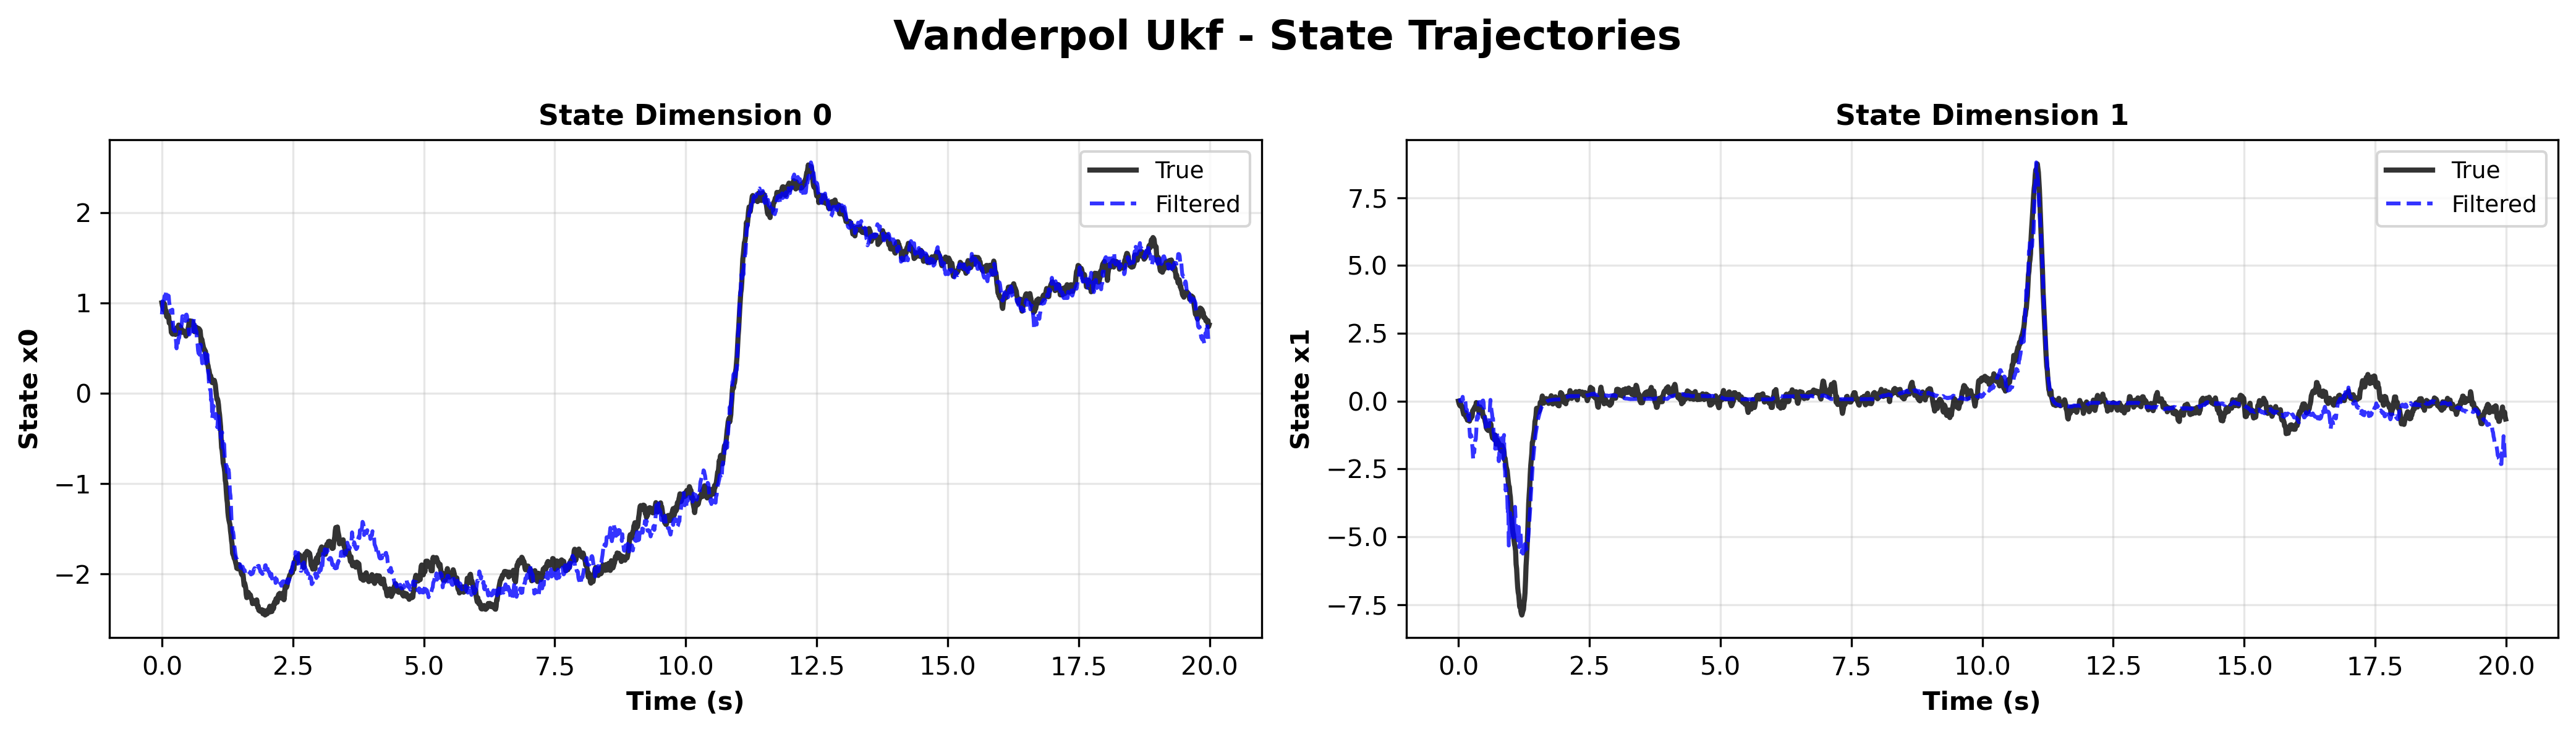
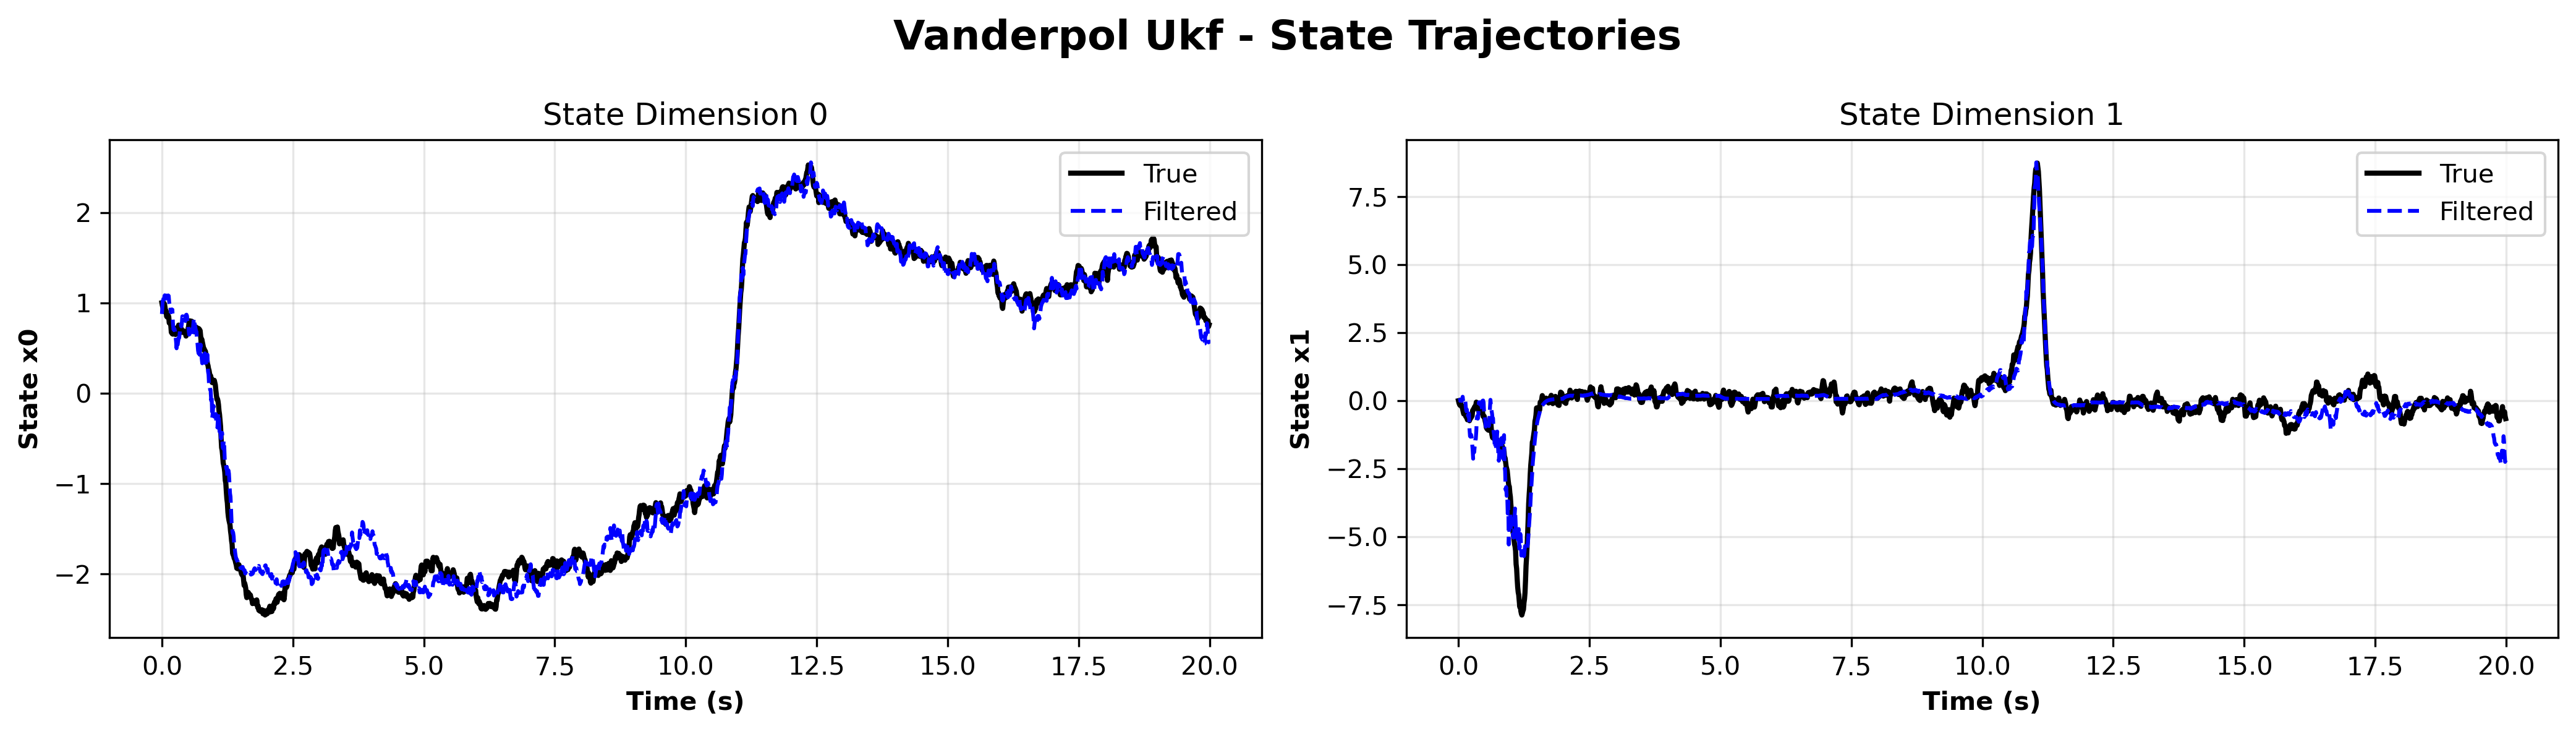
build: audited OptMathKernels bump v0.5.15 -> v0.5.17 (v3.2.1)
Adopt OptMathKernels release tag v0.5.17 per the Release Audit & Pinning
Policy. The upstream diff v0.5.15..v0.5.17 is docs + a NEON unit-test
tolerance fix only:

  - v0.5.16: x86_64 desktop RTX 5090 benchmark numbers (docs)
  - v0.5.17: relax NEON TrsvLower64x64 test tolerance 1e-3 -> 5e-3 to
    match its TrsvUpper twin (float32 forward-sub round-off; kernel
    unchanged); document apt/build deps (glslang-tools/glslc) in
    requirements.txt; .gitignore optenv/ and *.spv

Public API (include/) and compute backends (src/) are unchanged, and the
releases contain no MPI/OpenMPI. No parent source changes required.

Verified: cleared _deps, reconfigured at v0.5.17 (dep HEAD cb4b9ef = tag),
full rebuild, 24/24 CTest pass, benchmarks rerun + plots regenerated
(RMSE/NEES consistent; 3/15 committed PNGs changed cosmetically).

Docs: DEVELOPMENT_NOTES.md release-audit entry + v3.2.1 changelog + July 8
2026 build-verification block; README run metadata, pin refs, build option,
and version bumped to v3.2.1.

diff --git a/DEVELOPMENT_NOTES.md b/DEVELOPMENT_NOTES.md
@@ -11,12 +11,12 @@ through `Common/include/FilterMath.h` / `FilterMathGPU.h`.
 
 ### Pinning policy (the "tag/release format going forward")
 
-OptMathKernels now publishes semantic-version release tags (`v0.5.0` … `v0.5.15`).
+OptMathKernels now publishes semantic-version release tags (`v0.5.0` … `v0.5.17`).
 This project **pins to a specific tag** rather than tracking the moving `main`
 branch. The pin lives in one place — `CMakeLists.txt`:
 
 ```cmake
-set(OPTMATH_RELEASE_TAG "v0.5.15" CACHE STRING "Pinned OptMathKernels release tag")
+set(OPTMATH_RELEASE_TAG "v0.5.17" CACHE STRING "Pinned OptMathKernels release tag")
 FetchContent_Declare(OptimizedKernels ... GIT_TAG ${OPTMATH_RELEASE_TAG})
 ```
 
@@ -50,6 +50,33 @@ CTest pass**, Vulkan tests confirm `[Vulkan] Selected GPU: NVIDIA GeForce RTX
 5070 Ti Laptop GPU`, and the benchmark RMSE/NEES figures are numerically
 identical to the prior run (the changed kernel path is not on the UKF/SRUKF
 CUDA/Eigen benchmark path). Safe to adopt.
+
+### Audit: v0.5.15 → v0.5.17 (adopted 2026-07-08)
+
+Fetched tags and reviewed the full `git diff v0.5.15..v0.5.17` (two upstream
+releases). The entire diff touches only 5 files — `CMakeLists.txt`, `README.md`,
+`requirements.txt`, `.gitignore`, and `tests/test_neon_linalg.cpp`:
+
+| Change | File | Impact on this project |
+|--------|------|------------------------|
+| x86_64 desktop RTX 5090 benchmark numbers | `README.md` | None — upstream docs. |
+| **NEON `TrsvLower64x64` unit-test tolerance `1e-3 → 5e-3`** | `tests/test_neon_linalg.cpp` | None functional. float32 forward-substitution over 64 rows accumulates ~O(1e-3) round-off; the twin `TrsvUpper64x64` test already used `5e-3`. Removes a latent flaky-test edge; the `neon_trsv_lower` **kernel is unchanged**. |
+| Documented apt/build deps (`glslang-tools`/`glslc` for Vulkan SPIR-V shaders) | `requirements.txt` | None — build-doc only; already installed on this host (Vulkan suites compile & pass). |
+| Ignore `optenv/` venv and `*.spv` artifacts | `.gitignore` | None. |
+| Version bump 0.5.15 → 0.5.17 | `CMakeLists.txt` | None. |
+
+**Public API (`include/`) and compute backends (`src/`): zero changes** across
+v0.5.15..v0.5.17 (`git diff --name-only v0.5.15..v0.5.17 -- include/ src/` is
+empty). No `optmath::` call site in `FilterMath.h`, `FilterMathGPU.h`, or
+`particle_filter_gpu.hpp` is affected. **Note:** the upstream releases contain no
+MPI/OpenMPI — the parallelism story here remains OpenMP (CPU) + CUDA/Vulkan (GPU).
+
+**Verification (2026-07-08):** cleared `_deps/optimizedkernels-*`, reconfigured
+at `v0.5.17` (dep HEAD `cb4b9ef` = tag `v0.5.17`), full rebuild, **24/24 CTest
+pass** (≈ 5.8 s), benchmarks rerun and plots regenerated — RMSE/NEES figures
+numerically consistent with the prior run (the changed test path is not on the
+UKF/SRUKF CUDA/Eigen benchmark path; only 3 of 15 committed PNGs changed at the
+byte level, all cosmetic). Safe to adopt.
 
 ---
 
@@ -90,17 +117,17 @@ Cholesky is available as of upstream v0.5.10 (verified on CUDA 13).
 
 ---
 
-## Build Verification (May 25, 2026)
+## Build Verification (July 8, 2026)
 
-### Ubuntu 26.04 (x86_64) — OptMathKernels v0.5.15
+### Ubuntu 26.04 LTS (x86_64) — OptMathKernels v0.5.17
 
 **System Info**:
-- OS: Ubuntu 26.04 (x86_64)
+- OS: Ubuntu 26.04 LTS (x86_64)
 - GPU: NVIDIA GeForce RTX 5070 Ti Laptop GPU (Blackwell, SM 120), driver 595.71.05
 - CUDA: 13.1.115 (enabled, SM native / 120)
 - Vulkan: 1.4.341 (discrete GPU auto-selected — RTX 5070 Ti)
 - Eigen: 3.4.0
-- OptMathKernels: pinned **v0.5.15** via `OPTMATH_RELEASE_TAG`
+- OptMathKernels: pinned **v0.5.17** via `OPTMATH_RELEASE_TAG`
 
 **Build Command**:
 ```bash
@@ -181,6 +208,15 @@ This will enable full GPU acceleration for UKF/SRUKF sigma point operations.
 ---
 
 ## Changelog
+
+### v3.2.1 (July 2026)
+- Audited OptMathKernels bump v0.5.15 → v0.5.17 (see "Release Audit" above);
+  upstream diff is docs + a NEON unit-test tolerance fix only — no public API,
+  compute-backend, or MPI/OpenMPI change
+- Bumped `OPTMATH_RELEASE_TAG` to `v0.5.17`, cleared `_deps` to force re-checkout,
+  full rebuild, **24/24 CTest pass**
+- Benchmarks rerun and plots regenerated (RMSE/NEES consistent; 3/15 committed
+  PNGs changed cosmetically)
 
 ### v3.2.0 (May 2026)
 - Audited OptMathKernels major updates v0.5.13 → v0.5.15 (see "Release Audit" above)

diff --git a/README.md b/README.md
@@ -38,7 +38,7 @@ This repository provides nonlinear filtering implementations optimized for **ARM
 - **5 Filtering Methods**: EKF, UKF, SRUKF, PKF, RBPKF
 - **Fixed-Lag Smoothers**: Rauch-Tung-Striebel (RTS) backward pass and ancestry-based smoothing
 - **Comprehensive Benchmarks**: 4 challenging test problems with full metrics (10D coupled oscillators, Van der Pol, bearing-only tracking, reentry vehicle)
-- **Hardware Acceleration**: NEON dense linear algebra + Vulkan particle operations + CUDA GPU acceleration via [OptimizedKernels](https://github.com/n4hy/OptimizedKernelsForRaspberryPi5_NvidiaCUDA) (OptMathKernels), pinned to release tag **[v0.5.15](https://github.com/n4hy/OptimizedKernelsForRaspberryPi5_NvidiaCUDA/releases/tag/v0.5.15)**
+- **Hardware Acceleration**: NEON dense linear algebra + Vulkan particle operations + CUDA GPU acceleration via [OptimizedKernels](https://github.com/n4hy/OptimizedKernelsForRaspberryPi5_NvidiaCUDA) (OptMathKernels), pinned to release tag **[v0.5.17](https://github.com/n4hy/OptimizedKernelsForRaspberryPi5_NvidiaCUDA/releases/tag/v0.5.17)**
 
 ### Platform Support
 
@@ -115,7 +115,7 @@ This repository provides nonlinear filtering implementations optimized for **ARM
 
 Four challenging problems tested with UKF, SRUKF, and fixed-lag smoothers. Benchmarks run through the FilterMath dispatch layer (CUDA cuBLAS / SVE2 / NEON / Eigen, selected at runtime by platform).
 
-> **Latest run**: 25 May 2026 on **Ubuntu 26.04 x86_64**, **NVIDIA GeForce RTX 5070 Ti (Blackwell, SM 120)** with **CUDA 13.1**, Eigen 3.4, Vulkan 1.4, against **OptMathKernels v0.5.15** (pinned release tag). All **24/24** CTest cases pass (8 filter tests + 16 OptimizedKernels GPU/SIMD tests, including the CUDA kernel suite on the Blackwell GPU and the Vulkan suites, which now auto-select the discrete RTX 5070 Ti).
+> **Latest run**: 8 July 2026 on **Ubuntu 26.04 LTS x86_64**, **NVIDIA GeForce RTX 5070 Ti Laptop GPU (Blackwell, SM 120)** with **CUDA 13.1**, Eigen 3.4, Vulkan 1.4, against **OptMathKernels v0.5.17** (pinned release tag). All **24/24** CTest cases pass (8 filter tests + 16 OptimizedKernels GPU/SIMD tests, including the CUDA kernel suite on the Blackwell GPU and the Vulkan suites, which now auto-select the discrete RTX 5070 Ti).
 
 Reproduce everything below with:
 
@@ -409,7 +409,7 @@ Before deploying any Kalman filter, verify:
 - **Eigen3**: Linear algebra (3.4+, fetched automatically if not found)
 - **CMake**: Build system (3.14+)
 - **Python 3**: (3.10+) For visualization scripts; a virtual environment is created automatically during the build
-- **[OptimizedKernels](https://github.com/n4hy/OptimizedKernelsForRaspberryPi5_NvidiaCUDA)** (OptMathKernels): NEON/SVE2/Vulkan/CUDA acceleration (cloned to `$HOME`, fetched via FetchContent). **Pinned to a release tag** for reproducible builds — see `OPTMATH_RELEASE_TAG` in the root `CMakeLists.txt` (currently **v0.5.15**). Bumping it is a deliberate, audited step; see [DEVELOPMENT_NOTES.md](DEVELOPMENT_NOTES.md) → *OptMathKernels Release Audit & Pinning Policy*.
+- **[OptimizedKernels](https://github.com/n4hy/OptimizedKernelsForRaspberryPi5_NvidiaCUDA)** (OptMathKernels): NEON/SVE2/Vulkan/CUDA acceleration (cloned to `$HOME`, fetched via FetchContent). **Pinned to a release tag** for reproducible builds — see `OPTMATH_RELEASE_TAG` in the root `CMakeLists.txt` (currently **v0.5.17**). Bumping it is a deliberate, audited step; see [DEVELOPMENT_NOTES.md](DEVELOPMENT_NOTES.md) → *OptMathKernels Release Audit & Pinning Policy*.
 
 ### Optional
 
@@ -513,7 +513,7 @@ python3 ../scripts/plot_benchmarks.py .
 | `-DCMAKE_CUDA_COMPILER=""` | Disable CUDA (e.g., if toolkit is not installed or causes issues) |
 | `-DCMAKE_CUDA_ARCHITECTURES=native` | Build CUDA code for the detected GPU only (required for Blackwell SM 120 on CUDA 13.x) |
 | `-DOPTMATH_CUDA_NATIVE=ON` | Make the OptimizedKernels dependency honor `native` instead of its default multi-arch list |
-| `-DOPTMATH_RELEASE_TAG=v0.5.15` | OptMathKernels release tag to fetch/pin (default `v0.5.15`). Bump only after auditing the upstream diff — see [DEVELOPMENT_NOTES.md](DEVELOPMENT_NOTES.md) |
+| `-DOPTMATH_RELEASE_TAG=v0.5.17` | OptMathKernels release tag to fetch/pin (default `v0.5.17`). Bump only after auditing the upstream diff — see [DEVELOPMENT_NOTES.md](DEVELOPMENT_NOTES.md) |
 | `-DCMAKE_BUILD_TYPE=Release` | Optimized build with `-O3 -march=native` (forwarded to nvcc's host compiler via `-Xcompiler` for ABI consistency) |
 | `-DCMAKE_BUILD_TYPE=Debug` | Debug build with symbols |
 
@@ -770,7 +770,7 @@ MIT License - see LICENSE file for details.
 
 ---
 
-**Version**: 3.2.0
+**Version**: 3.2.1
 **Last Updated**: 25 May 2026
-**OptMathKernels**: pinned to release tag [v0.5.15](https://github.com/n4hy/OptimizedKernelsForRaspberryPi5_NvidiaCUDA/releases/tag/v0.5.15)
+**OptMathKernels**: pinned to release tag [v0.5.17](https://github.com/n4hy/OptimizedKernelsForRaspberryPi5_NvidiaCUDA/releases/tag/v0.5.17)
 **Platform**: ARM aarch64 (Raspberry Pi 5, Orange Pi 5/6) + x86_64 (Vulkan + CUDA + Eigen) + NVIDIA GPU (SM 75–120 via CUDA 12.x/13.x; Blackwell RTX 50-series verified on SM 120 / CUDA 13.1)